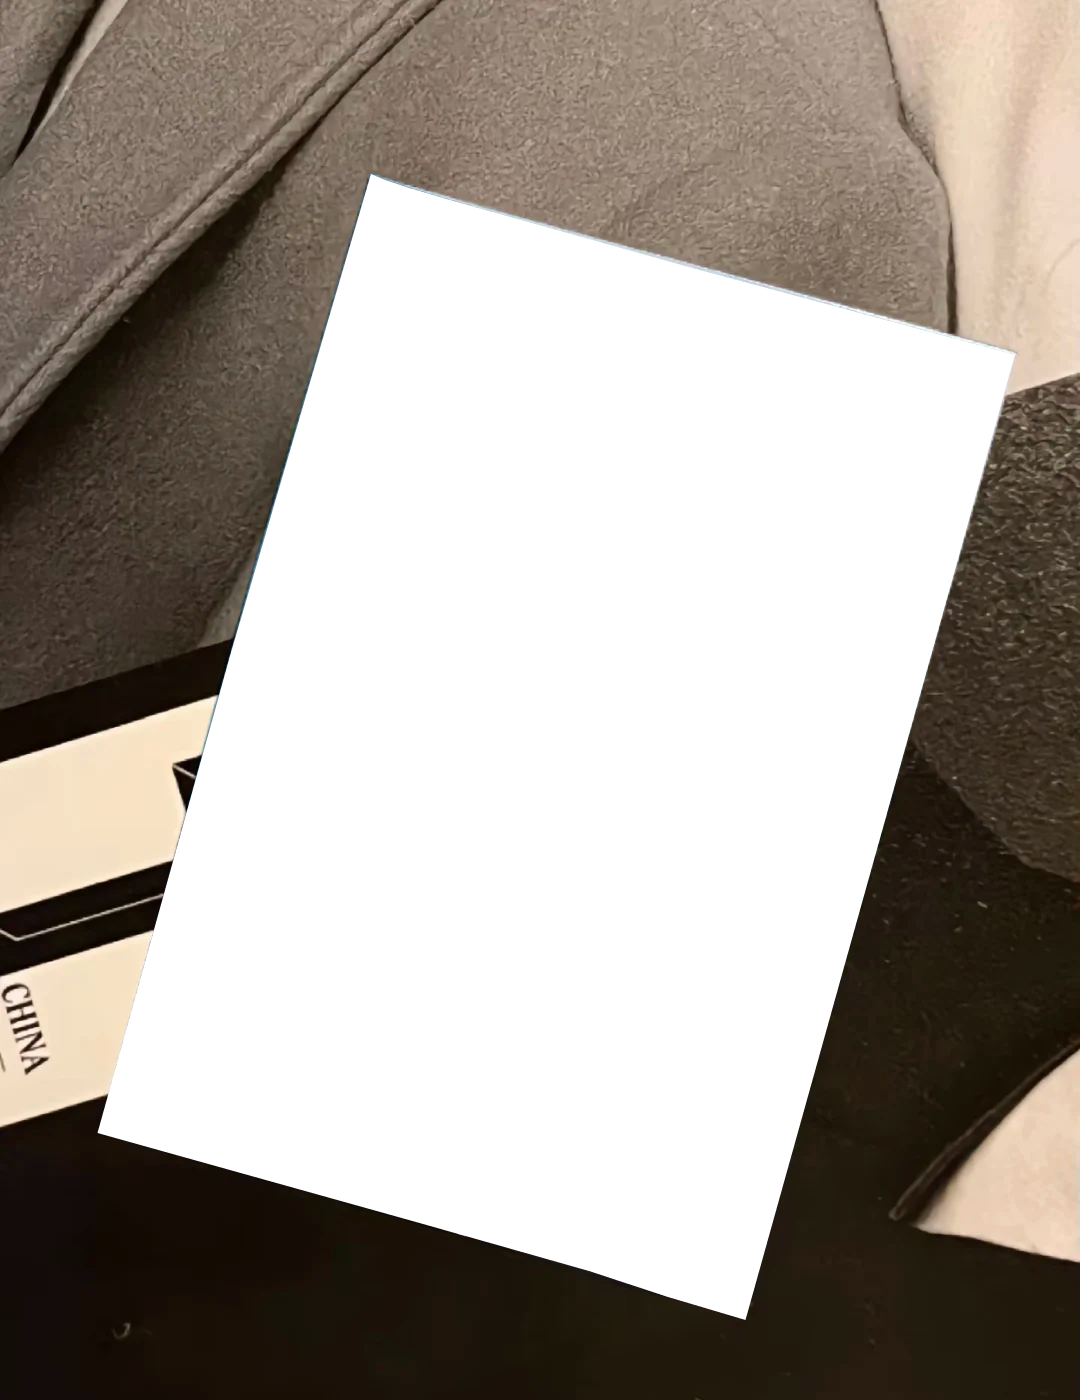
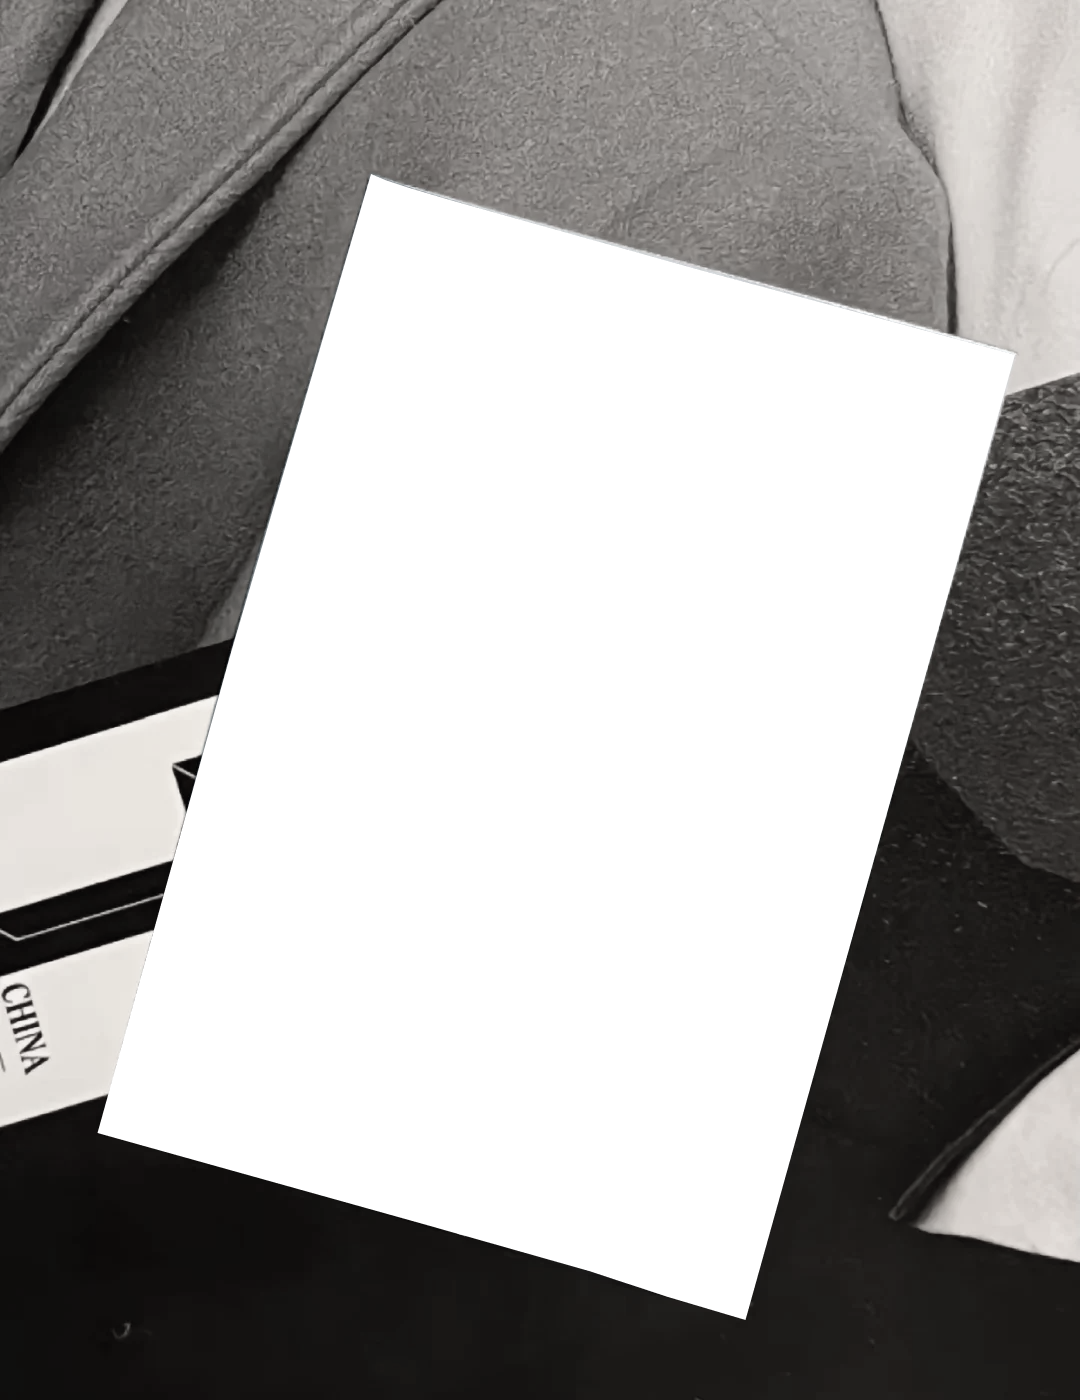
update template_2

Changed region(s): [[0.0, 0.4914, 0.2139, 0.645], [0.8556, 0.7679, 1.0, 0.8907], [0.0306, 0.6757, 0.1528, 0.7986]]

diff --git a/demo/processor.py b/demo/processor.py
@@ -430,12 +430,16 @@ class IDPhotoProcessor:
         result_image_hd,
         language,
     ):
+        TEMPLATE_NAME_LIST = ["template_1", "template_2"]
         """生成模板照片"""
-        result_image_template = generte_template_photo(
-            template_name="template_1",
-            input_image=result_image_hd,
-        )
-        return result_image_template, True
+        result_image_template_list = []
+        for template_name in TEMPLATE_NAME_LIST:
+            result_image_template = generte_template_photo(
+                template_name=template_name,
+                input_image=result_image_hd,
+            )
+            result_image_template_list.append(result_image_template)
+        return result_image_template_list, True
 
     # 添加水印
     def _add_watermark(

diff --git a/hivision/plugin/template/template_calculator.py b/hivision/plugin/template/template_calculator.py
@@ -66,6 +66,8 @@ def generte_template_photo(template_name: str, input_image: np.ndarray) -> np.nd
 
     # 将旋转后的图像粘贴到结果图像上
     result[paste_y:paste_y+paste_height, paste_x:paste_x+paste_width] = resized_image[:paste_height, :paste_width]
+    
+    template_image = cv2.cvtColor(template_image, cv2.COLOR_BGRA2RGBA)
 
     # 将template_image叠加到结果图像上
     if template_image.shape[2] == 4:  # 确保template_image有alpha通道

diff --git a/demo/ui.py b/demo/ui.py
@@ -368,7 +368,7 @@ def create_ui(
                     format="jpeg",
                 )
                 # 模版照片      
-                img_output_template = gr.Image(
+                img_output_template = gr.Gallery(
                     label=LOCALES["template_photo"][DEFAULT_LANG]["label"],
                     height=350,
                     format="jpeg",
